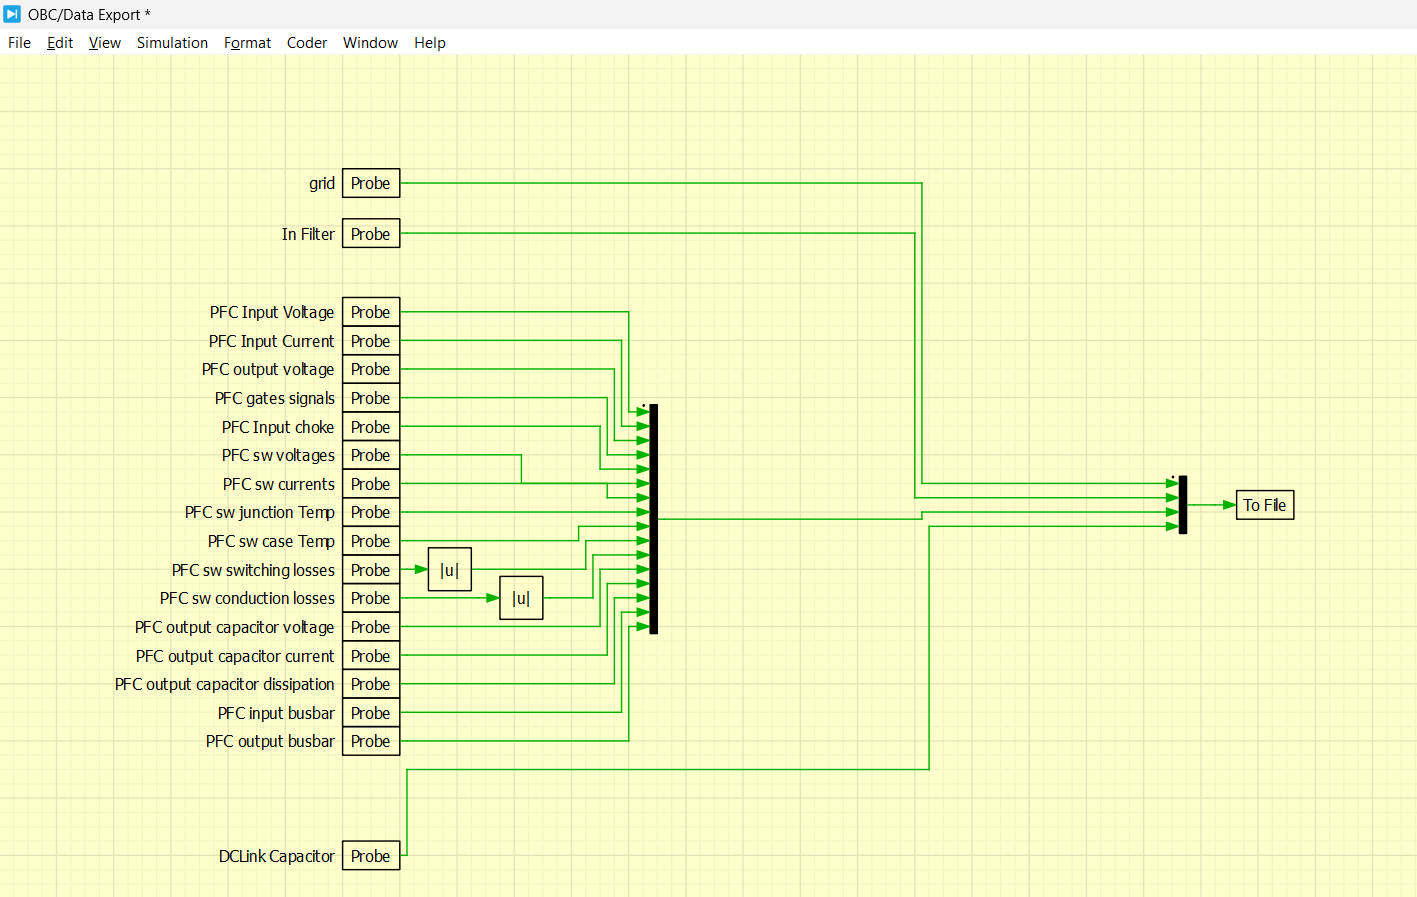
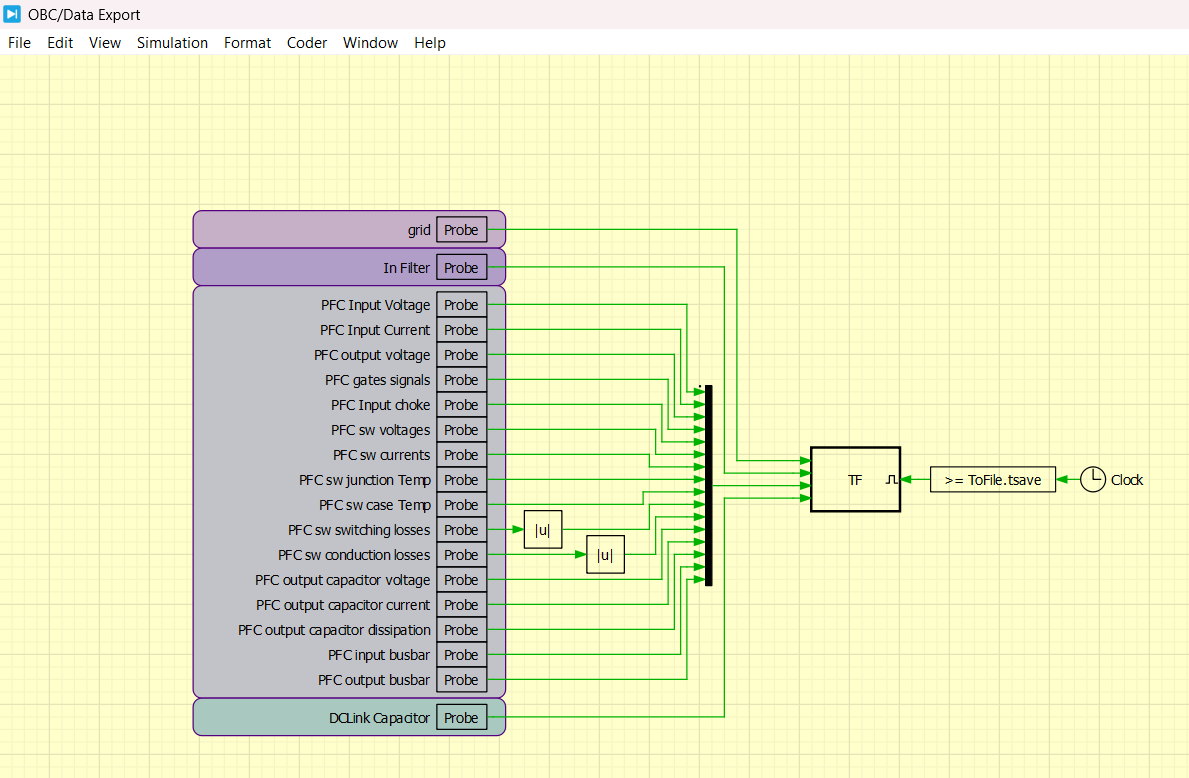
data export atomic bloc and pfc choke scopes

Changed region(s): [[0.0622, 0.1851, 0.9647, 0.9871], [0.0, 0.0, 1.0, 0.0925]]

diff --git a/0101 Modeling and Simulation/0000 PLECS SIMULATION/Python Lib/Model_Parameters.py b/0101 Modeling and Simulation/0000 PLECS SIMULATION/Python Lib/Model_Parameters.py
@@ -31,7 +31,8 @@ ToFile      =  {
                   'logfile'		   : (os.path.join(current_directory, logfile_path+f"Log_{utc_numeric}_{sim_idx}.log")).replace("\\", "/"),                     
                   'output_html'     : (os.path.join(current_directory, output_html_path+f"Html_{utc_numeric}_{sim_idx}.html")).replace("\\", "/"),
                   'Traces'		      : (os.path.join(current_directory, Traces_path)).replace("\\", "/")  ,                     
-                  'Ts'              : 0         
+                  'Ts'              : 0,
+                  'tsave' 	    	   : Sim_param['tSim']-1     
                }  
 scopes      =  [
 				      "OBC/Scopes/grid_scope",     
@@ -51,7 +52,9 @@ scopes      =  [
 				      "OBC/Scopes/PFC conduction losses",                                
 				      "OBC/Scopes/PFC output capacitor",                                
 				      "OBC/Scopes/PFC input busbar",                                
-				      "OBC/Scopes/PFC output busbar"                               
+				      "OBC/Scopes/PFC output busbar",
+                  "OBC/Scopes/PFC choke vs grid",
+                  "OBC/Scopes/grid vs filter"                               
                            
                ]	
 PFC_glb     =  {
@@ -283,7 +286,7 @@ HV_Filter   =  {
 
             }
 AC_Filter   =  {
-                  'Config'          :  4 ,
+                  'Config'          :  1 ,
                   'Cin'             :  1e-6,  
                   'L_CMC'           :  1.5e-3, 
                   'L_DMC'           :  900e-6, 
